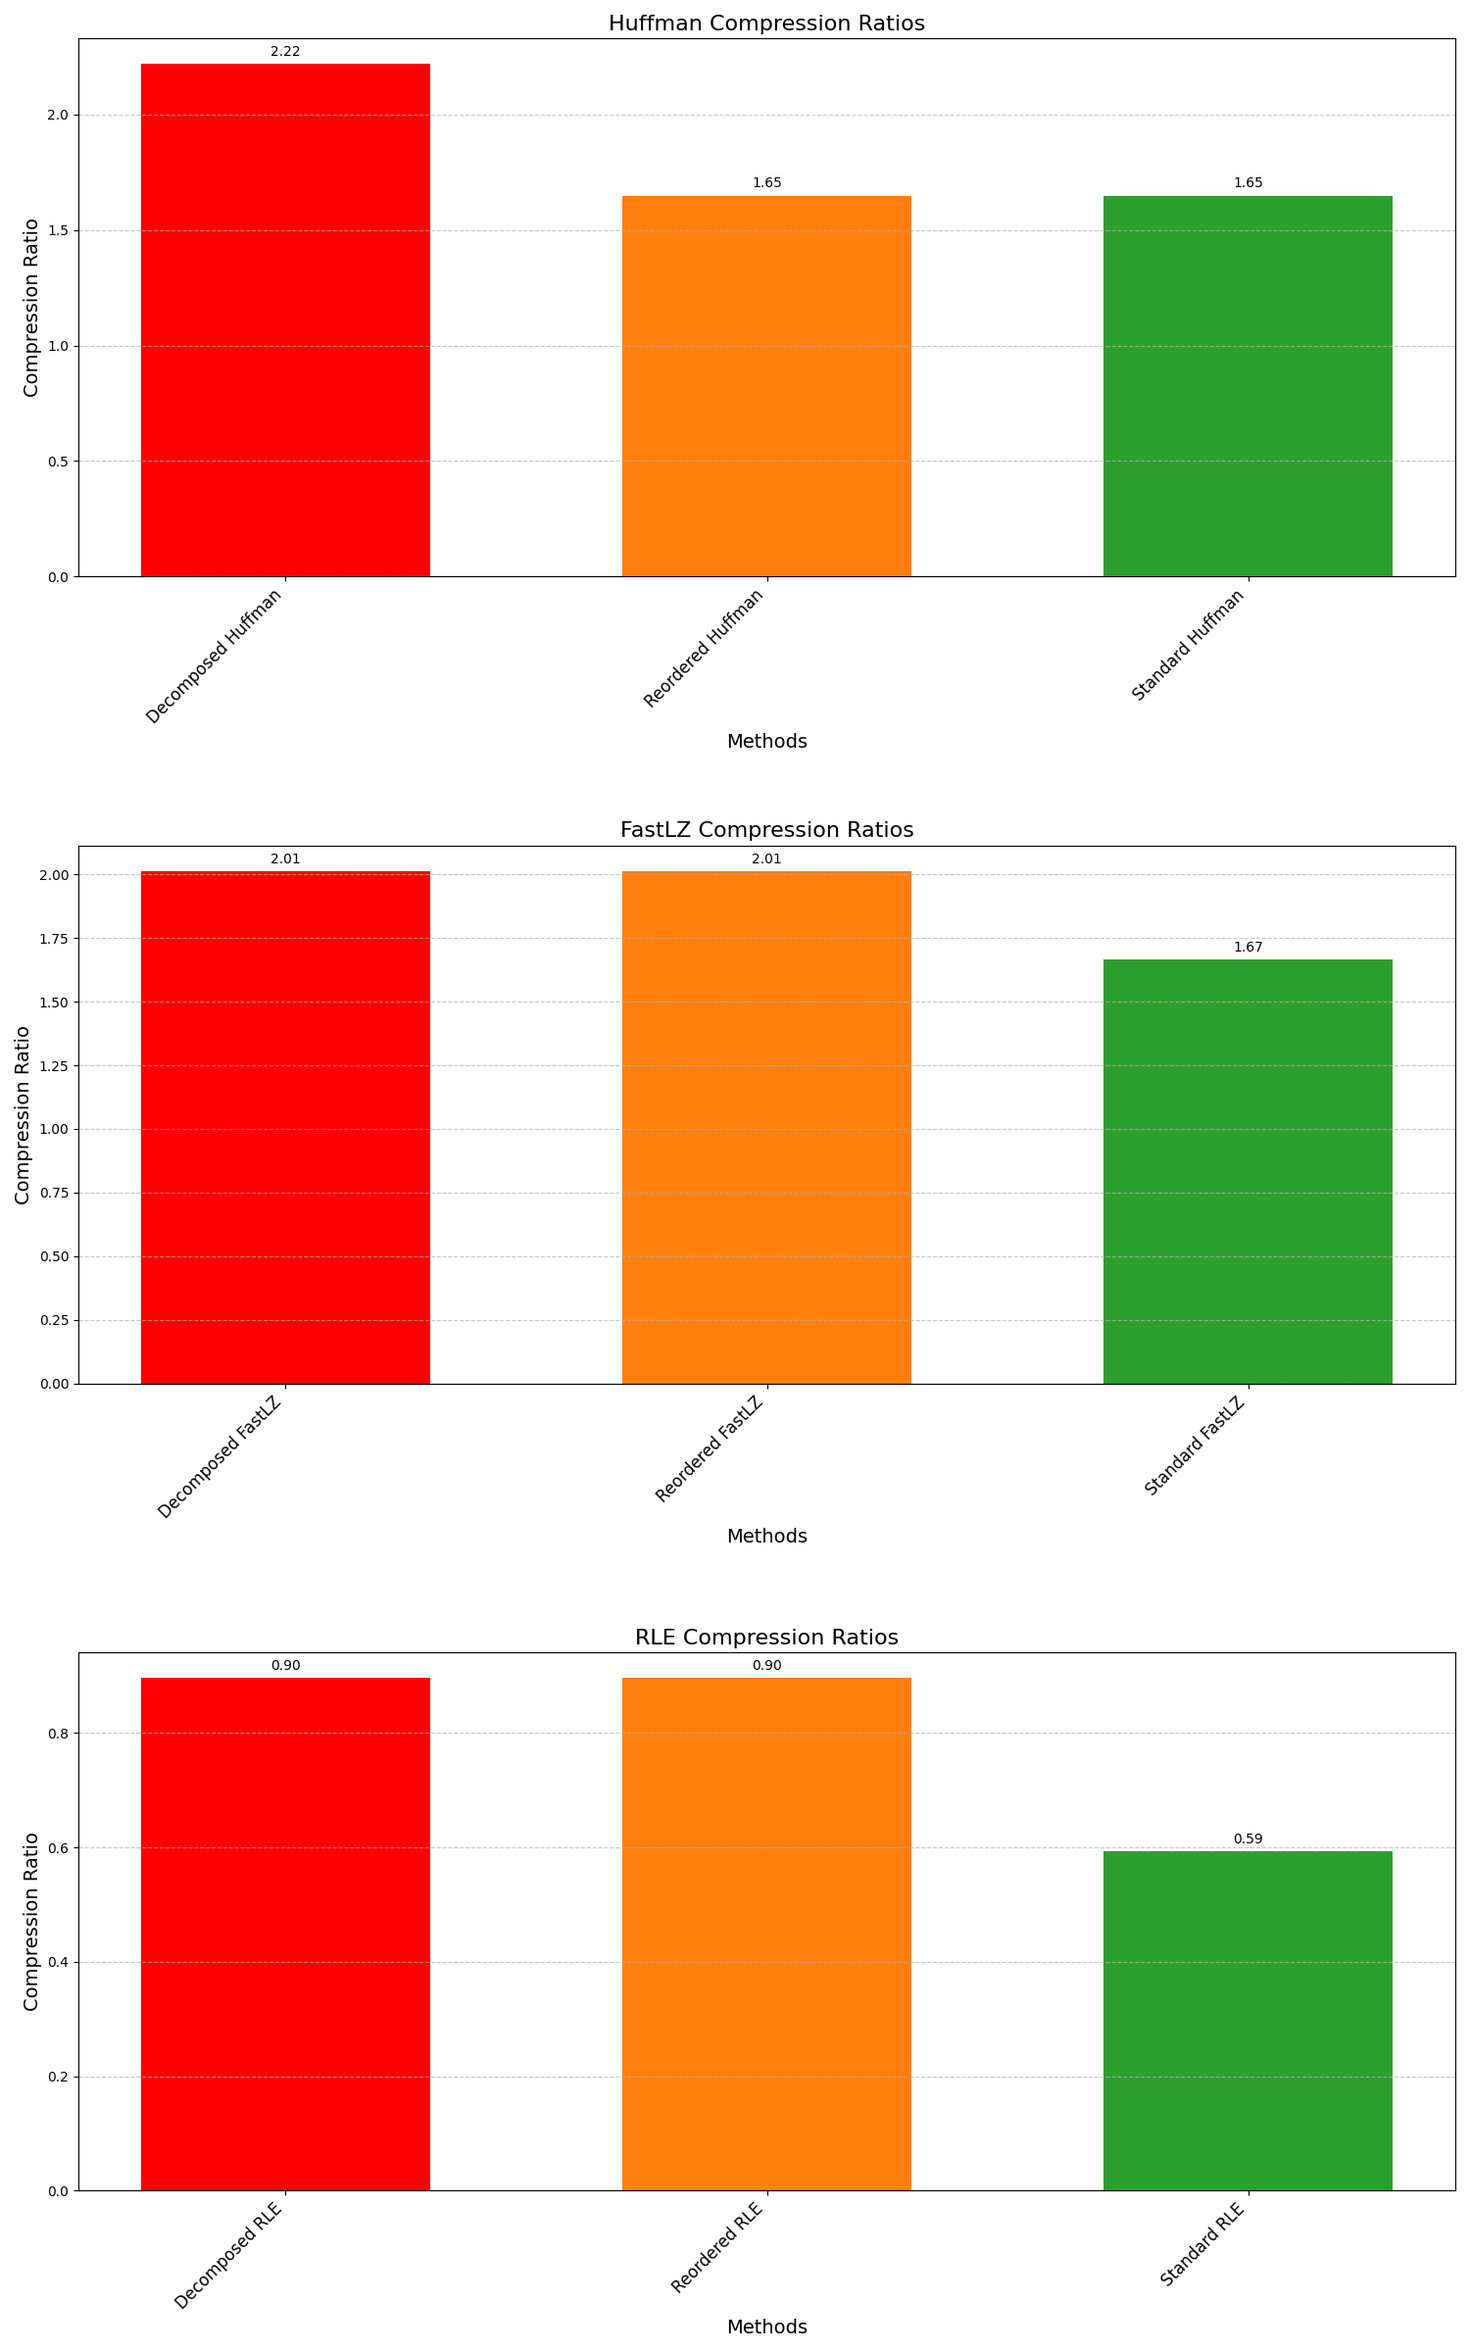
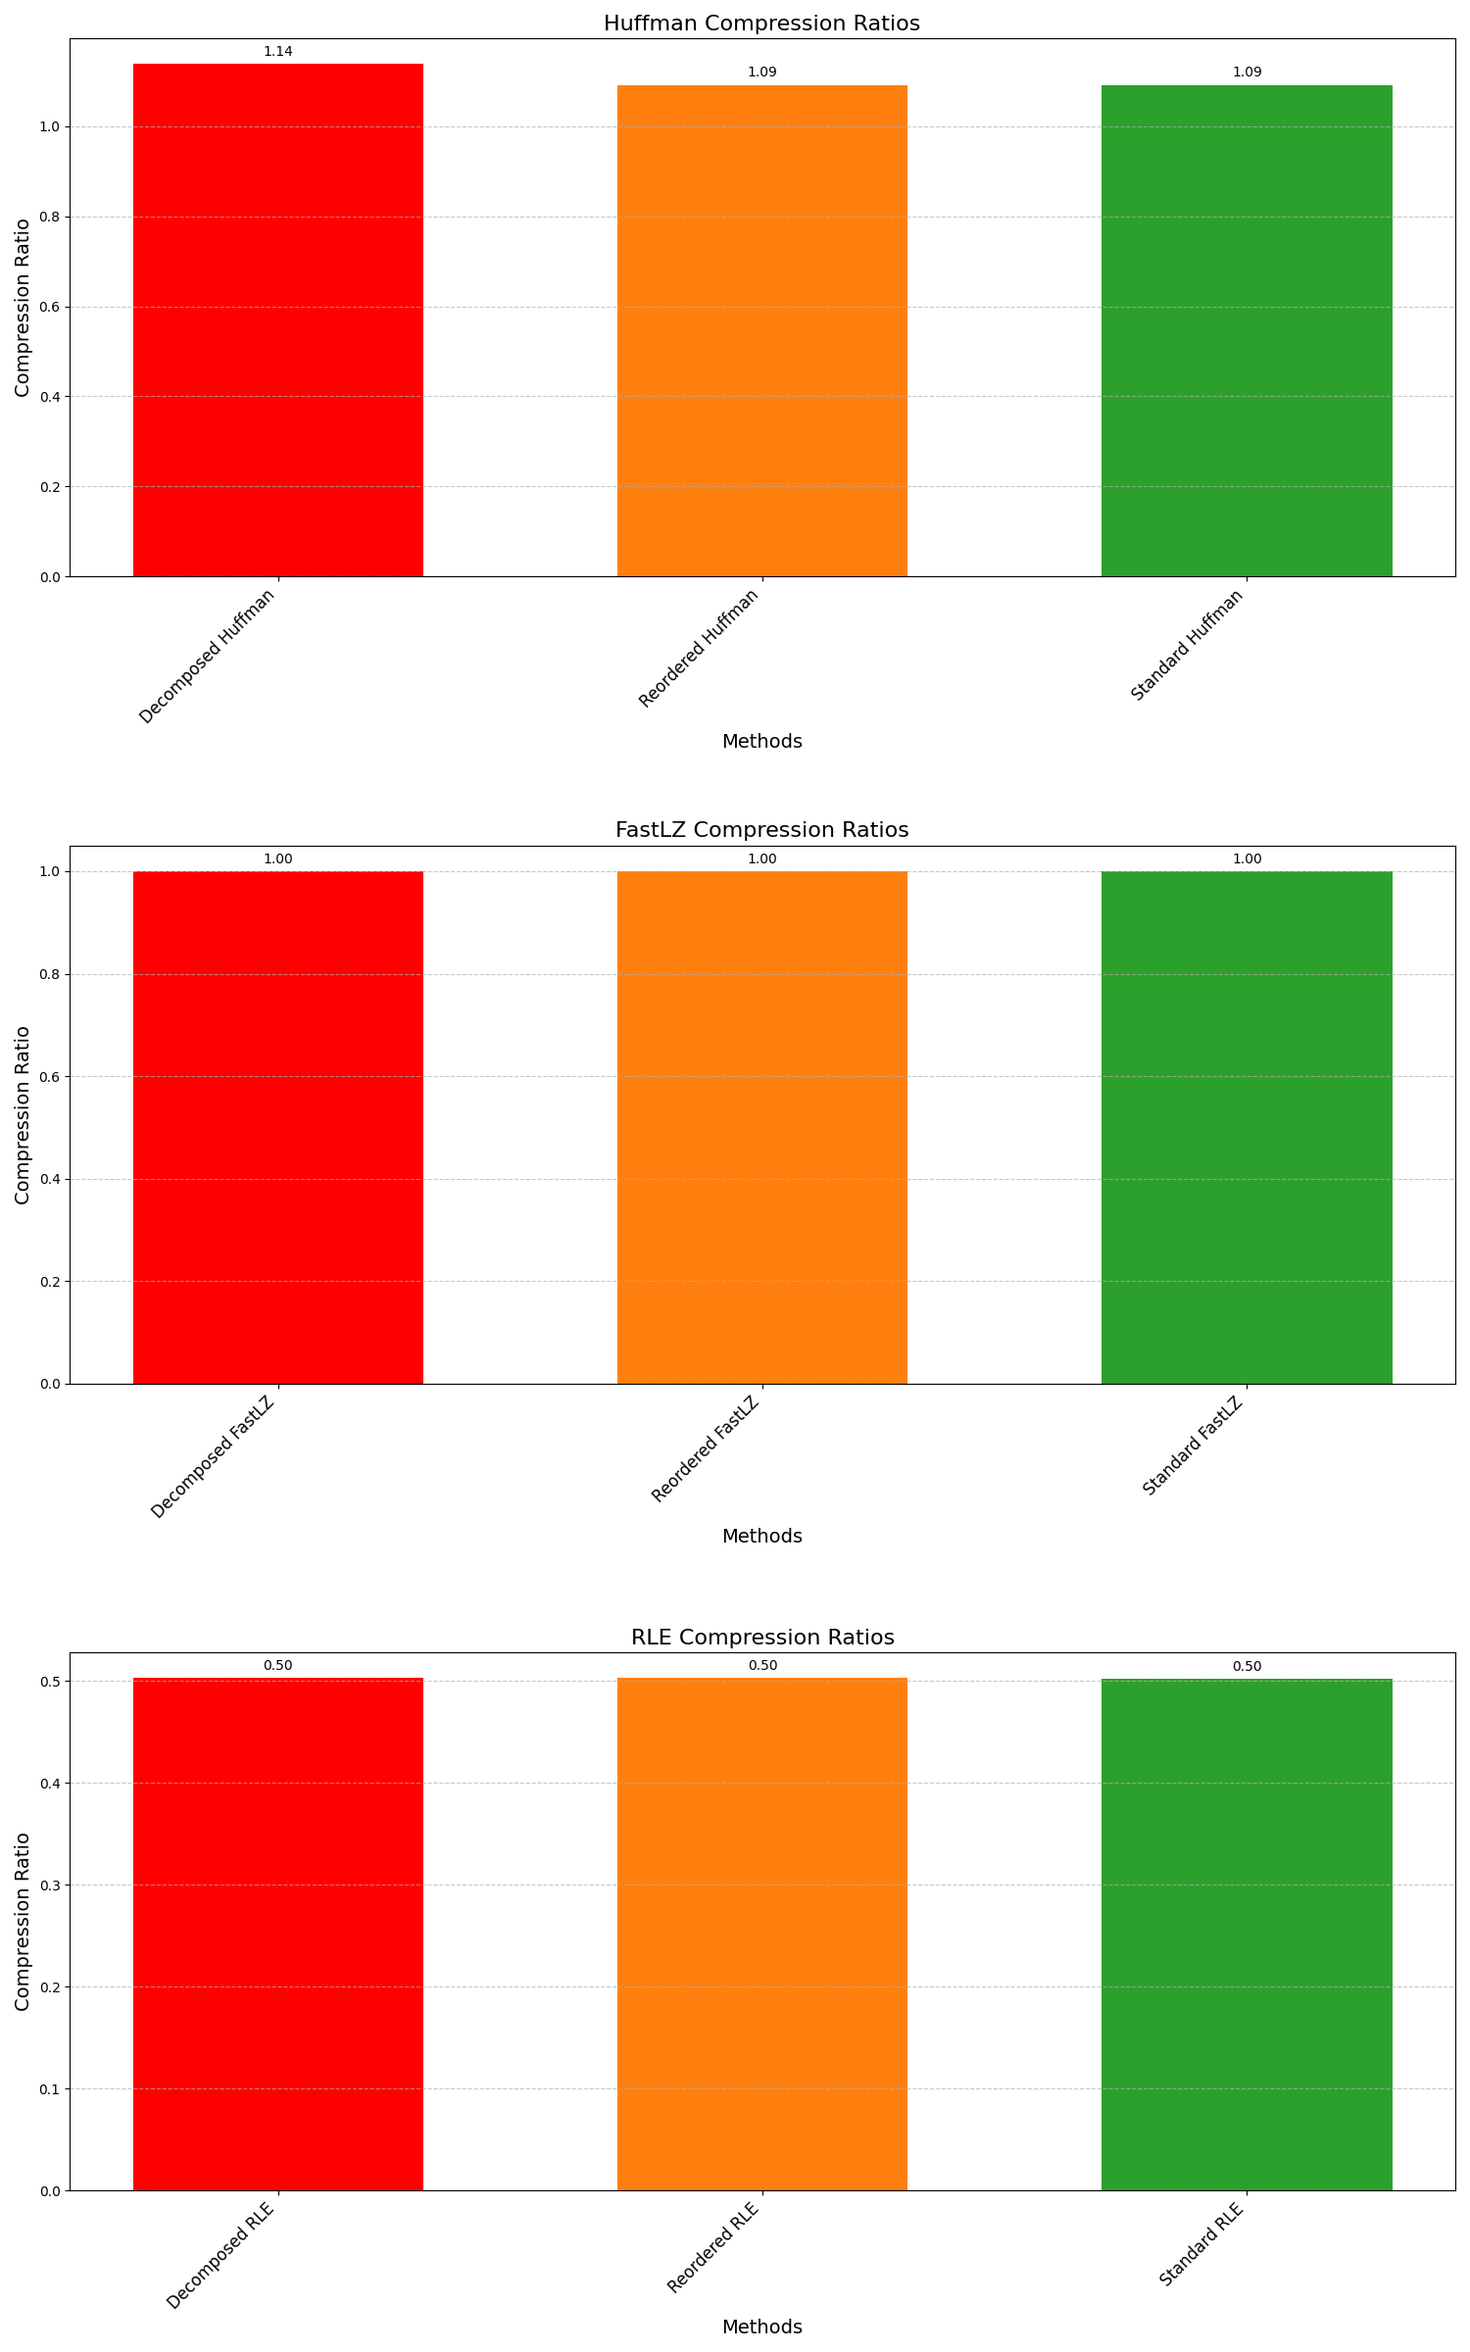
1

diff --git a/scripts/oracle.py b/scripts/oracle.py
@@ -1,0 +1,121 @@
+import pandas as pd
+import os
+import glob
+
+# Define the folder containing all input CSV files
+input_folder = '//home/jamalids/Documents/2D/CR-Ct-DT/python-results/logs/32/'
+output_directory = os.path.join(input_folder, 'compression_results')
+
+# Create the output directory if it doesn't exist
+os.makedirs(output_directory, exist_ok=True)
+
+# Define compression methods grouped by type
+grouped_methods = {
+    'huffman': [
+        'decomposed huffman_compress compressed size (B)',
+        'decomposed row-ordered huffman_compress compressed size (B)',
+        'reordered huffman_compress compressed size (B)',
+        'reordered row-ordered huffman_compress compressed size (B)',
+        'standard huffman_compress compressed size (B)'
+    ],
+    'zstd': [
+        'decomposed zstd compressed size (B)',
+        'decomposed row-ordered zstd compressed size (B)',
+        'reordered zstd compressed size (B)',
+        'reordered row-ordered zstd compressed size (B)',
+        'standard zstd compressed size (B)'
+    ],
+    'zlib': [
+        'decomposed zlib compressed size (B)',
+        'decomposed row-ordered zlib compressed size (B)',
+        'reordered zlib compressed size (B)',
+        'reordered row-ordered zlib compressed size (B)',
+        'standard zlib compressed size (B)'
+    ],
+    'bz2': [
+        'decomposed bz2 compressed size (B)',
+        'decomposed row-ordered bz2 compressed size (B)',
+        'reordered bz2 compressed size (B)',
+        'reordered row-ordered bz2 compressed size (B)',
+        'standard bz2 compressed size (B)'
+    ],
+    'snappy': [
+        'decomposed snappy compressed size (B)',
+        'decomposed row-ordered snappy compressed size (B)',
+        'reordered snappy compressed size (B)',
+        'reordered row-ordered snappy compressed size (B)',
+        'standard snappy compressed size (B)'
+    ],
+    'fastlz': [
+        'decomposed fastlz compressed size (B)',
+        'decomposed row-ordered fastlz compressed size (B)',
+        'reordered fastlz compressed size (B)',
+        'reordered row-ordered fastlz compressed size (B)',
+        'standard fastlz compressed size (B)'
+    ],
+    'rle': [
+        'decomposed rle compressed size (B)',
+        'decomposed row-ordered rle compressed size (B)',
+        'reordered rle compressed size (B)',
+        'reordered row-ordered rle compressed size (B)',
+        'standard rle compressed size (B)'
+    ]
+}
+
+# Initialize a list to store top 5 results across all datasets
+all_datasets_top_5_results = []
+
+# Iterate over all CSV files in the input folder
+for file_path in glob.glob(os.path.join(input_folder, '*.csv')):
+    print(f"Processing file: {file_path}")
+
+    # Load the dataset
+    data = pd.read_csv(file_path)
+
+    # Calculate compression ratios for each method
+    for methods in grouped_methods.values():
+        for method in methods:
+            if method in data.columns:
+                ratio_column = method.replace('compressed size (B)', 'compression ratio')
+                data[ratio_column] = data['original size'] / data[method]
+
+    # Initialize a list to store the formatted top 5 results for the current file
+    formatted_top_5_results = []
+
+    # Extract the top 5 results for each method and variation
+    for group, methods in grouped_methods.items():
+        for method in methods:
+            ratio_column = method.replace('compressed size (B)', 'compression ratio')
+            if ratio_column in data.columns:
+                # Get the top 5 compression ratios for the current method and variation
+                top_5 = data.nlargest(5, ratio_column)[
+                    ['dataset name', 'decomposition', ratio_column]
+                ].copy()
+                for _, row in top_5.iterrows():
+                    formatted_top_5_results.append({
+                        'dataset name': row['dataset name'],
+                        'decomposition': row['decomposition'],
+                        'method': group,
+                        'variation': method,
+                        'compression ratio': row[ratio_column]
+                    })
+
+    # Convert the list of dictionaries to a DataFrame
+    formatted_top_5_results_df = pd.DataFrame(formatted_top_5_results)
+
+    # Save the top 5 results for the current file
+    output_file = os.path.join(output_directory, f"{os.path.basename(file_path).split('.')[0]}_top_5_results.csv")
+    formatted_top_5_results_df.to_csv(output_file, index=False)
+    print(f"Top 5 results for {file_path} saved to: {output_file}")
+
+    # Append the current file's results to the combined list
+    all_datasets_top_5_results.extend(formatted_top_5_results)
+
+# Combine all datasets' results into a single DataFrame
+combined_results_df = pd.DataFrame(all_datasets_top_5_results)
+
+# Save the combined results to a single CSV file
+combined_output_file = os.path.join(output_directory, "combined_top_5_compression_results.csv")
+combined_results_df.to_csv(combined_output_file, index=False)
+
+print(f"Combined top 5 results saved to: {combined_output_file}")

diff --git a/scripts/oracle1.py b/scripts/oracle1.py
@@ -1,0 +1,100 @@
+import pandas as pd
+import os
+
+# Load the dataset
+file_path = '/home/jamalids/Documents/2D/CR-Ct-DT/python-results/logs/32/acs_wht_f32_decomposition_stats.csv'
+data = pd.read_csv(file_path)
+
+# Define compression methods grouped by type
+grouped_methods = {
+    'huffman': [
+        'decomposed huffman_compress compressed size (B)',
+        'decomposed row-ordered huffman_compress compressed size (B)',
+        'reordered huffman_compress compressed size (B)',
+        'reordered row-ordered huffman_compress compressed size (B)',
+        'standard huffman_compress compressed size (B)'
+    ],
+    'zstd': [
+        'decomposed zstd compressed size (B)',
+        'decomposed row-ordered zstd compressed size (B)',
+        'reordered zstd compressed size (B)',
+        'reordered row-ordered zstd compressed size (B)',
+        'standard zstd compressed size (B)'
+    ],
+    'zlib': [
+        'decomposed zlib compressed size (B)',
+        'decomposed row-ordered zlib compressed size (B)',
+        'reordered zlib compressed size (B)',
+        'reordered row-ordered zlib compressed size (B)',
+        'standard zlib compressed size (B)'
+    ],
+    'bz2': [
+        'decomposed bz2 compressed size (B)',
+        'decomposed row-ordered bz2 compressed size (B)',
+        'reordered bz2 compressed size (B)',
+        'reordered row-ordered bz2 compressed size (B)',
+        'standard bz2 compressed size (B)'
+    ],
+    'snappy': [
+        'decomposed snappy compressed size (B)',
+        'decomposed row-ordered snappy compressed size (B)',
+        'reordered snappy compressed size (B)',
+        'reordered row-ordered snappy compressed size (B)',
+        'standard snappy compressed size (B)'
+    ],
+    'fastlz': [
+        'decomposed fastlz compressed size (B)',
+        'decomposed row-ordered fastlz compressed size (B)',
+        'reordered fastlz compressed size (B)',
+        'reordered row-ordered fastlz compressed size (B)',
+        'standard fastlz compressed size (B)'
+    ],
+    'rle': [
+        'decomposed rle compressed size (B)',
+        'decomposed row-ordered rle compressed size (B)',
+        'reordered rle compressed size (B)',
+        'reordered row-ordered rle compressed size (B)',
+        'standard rle compressed size (B)'
+    ]
+}
+
+# Calculate compression ratios for each method
+for methods in grouped_methods.values():
+    for method in methods:
+        if method in data.columns:
+            ratio_column = method.replace('compressed size (B)', 'compression ratio')
+            data[ratio_column] = data['original size'] / data[method]
+
+# Create output directory if it does not exist
+output_directory = '/home/jamalids/Documents/2D/CR-Ct-DT/python-results/logs/32/compression_results'
+os.makedirs(output_directory, exist_ok=True)
+
+# Initialize a list to store the formatted top 5 results
+formatted_top_5_results = []
+
+# Reshape the data to store only the top 5 compression ratios for each variation in a single column
+for group, methods in grouped_methods.items():
+    for method in methods:
+        ratio_column = method.replace('compressed size (B)', 'compression ratio')
+        if ratio_column in data.columns:
+            # Get the top 5 compression ratios for the current method and variation
+            top_5 = data.nlargest(5, ratio_column)[
+                ['dataset name', 'decomposition', ratio_column]
+            ].copy()
+            for _, row in top_5.iterrows():
+                formatted_top_5_results.append({
+                    'dataset name': row['dataset name'],
+                    'decomposition': row['decomposition'],
+                    'method': group,
+                    'variation': method,
+                    'compression ratio': row[ratio_column]
+                })
+
+# Convert the list of dictionaries to a DataFrame
+formatted_top_5_results_df = pd.DataFrame(formatted_top_5_results)
+
+# Save the formatted top 5 results to a CSV file
+output_file = os.path.join(output_directory, "formatted_top_5_compression_results.csv")
+formatted_top_5_results_df.to_csv(output_file, index=False)
+
+print(f"Formatted top 5 results saved to: {output_file}")

diff --git a/scripts/plot-oracle.py b/scripts/plot-oracle.py
@@ -1,0 +1,89 @@
+import pandas as pd
+import os
+import matplotlib.pyplot as plt
+import math
+
+# Load the combined results file
+file_path = '/home/jamalids/Documents/2D/CR-Ct-DT/python-results/logs/32/compression_results/combined_top_5_compression_results.csv'
+data = pd.read_csv(file_path)
+
+# Output directory for plots
+output_plots_dir = '/home/jamalids/Documents/2D/CR-Ct-DT/python-results/logs/32/compression_results/plots'
+os.makedirs(output_plots_dir, exist_ok=True)
+
+# Replace variation names for easier reading
+data['variation'] = data['variation'].str.replace(' compressed size (B)', '', regex=False)
+
+# Get unique datasets
+datasets = data['dataset name'].unique()
+
+# Create a plot for each dataset
+for dataset in datasets:
+    dataset_data = data[data['dataset name'] == dataset]
+
+    # Get unique variations for the current dataset
+    variations = dataset_data['variation'].unique()
+
+    # Determine grid size for subplots
+    n_variations = len(variations)
+    n_rows = math.ceil(math.sqrt(n_variations))  # Rows for a roughly square grid
+    n_cols = math.ceil(n_variations / n_rows)   # Columns to fit all subplots
+
+    # Create a figure with subplots
+    fig, axes = plt.subplots(
+        nrows=n_rows,
+        ncols=n_cols,
+        figsize=(16, 12),
+        constrained_layout=True
+    )
+    axes = axes.flatten()  # Flatten axes array for easier indexing
+
+    for i, variation in enumerate(variations):
+        # Get data for the current variation
+        variation_data = dataset_data[dataset_data['variation'] == variation]
+
+        # Select the top 3 compression ratios for this variation
+        top_3 = variation_data.nlargest(3, 'compression ratio')
+
+        # Plot on the corresponding subplot
+        ax = axes[i]
+        bars = ax.bar(
+            top_3['decomposition'],
+            top_3['compression ratio'],
+            color='skyblue'
+        )
+
+        # Annotate each bar with its compression ratio
+        for bar, ratio in zip(bars, top_3['compression ratio']):
+            ax.text(
+                bar.get_x() + bar.get_width() / 2,
+                bar.get_height(),
+                f"{ratio:.2f}",
+                ha='center',
+                va='bottom',
+                fontsize=8
+            )
+
+        # Set the title and labels for each subplot
+        ax.set_title(variation, fontsize=10)
+        ax.set_xlabel('Decomposition', fontsize=8)
+        ax.set_ylabel('Compression Ratio', fontsize=8)
+        ax.tick_params(axis='x', labelrotation=45, labelsize=7)
+        ax.tick_params(axis='y', labelsize=7)
+
+    # Turn off unused subplots if there are fewer variations than the grid size
+    for j in range(n_variations, len(axes)):
+        axes[j].axis('off')
+
+    # Set the main title for the figure
+    fig.suptitle(f'Top 3 Compression Ratios for Each Variation in {dataset}', fontsize=16)
+
+    # Save the plot for this dataset
+    output_file = os.path.join(output_plots_dir, f'{dataset}_top_3_compression_ratios_by_variation.png')
+    plt.savefig(output_file)
+    plt.close(fig)  # Close the figure to avoid overlapping plots
+
+    print(f"Plot saved for dataset '{dataset}' at: {output_file}")
+
+# Display message after processing all datasets
+print(f"All plots saved to: {output_plots_dir}")

diff --git a/scripts/plot-paper.py b/scripts/plot-paper.py
@@ -39,7 +39,7 @@ label_mapping = {
     'reordered zlib compressed size (B)': 'Reordered Zlib',
     'standard zlib compressed size (B)': 'Standard Zlib',
 
-   
+
 
     'decomposed snappy compressed size (B)': 'Decomposed Snappy',
     'reordered snappy compressed size (B)': 'Reordered Snappy',
@@ -187,7 +187,7 @@ def plot_entropy(byte_entropies, plot_filename):
 
 def main():
     # Load the data from the CSV file
-    file_path = "/home/jamalids/Documents/2D/CR-Ct-DT/python-results/logs/citytemp_f32_present.csv"  # Update this path
+    file_path = "/home/jamalids/Documents/2D/CR-Ct-DT/python-results/logs/turbulence_f32_decomposition_stats.csv"  # Update this path
     data = load_data(file_path)
 
     # Debugging: Print column names and first few rows
